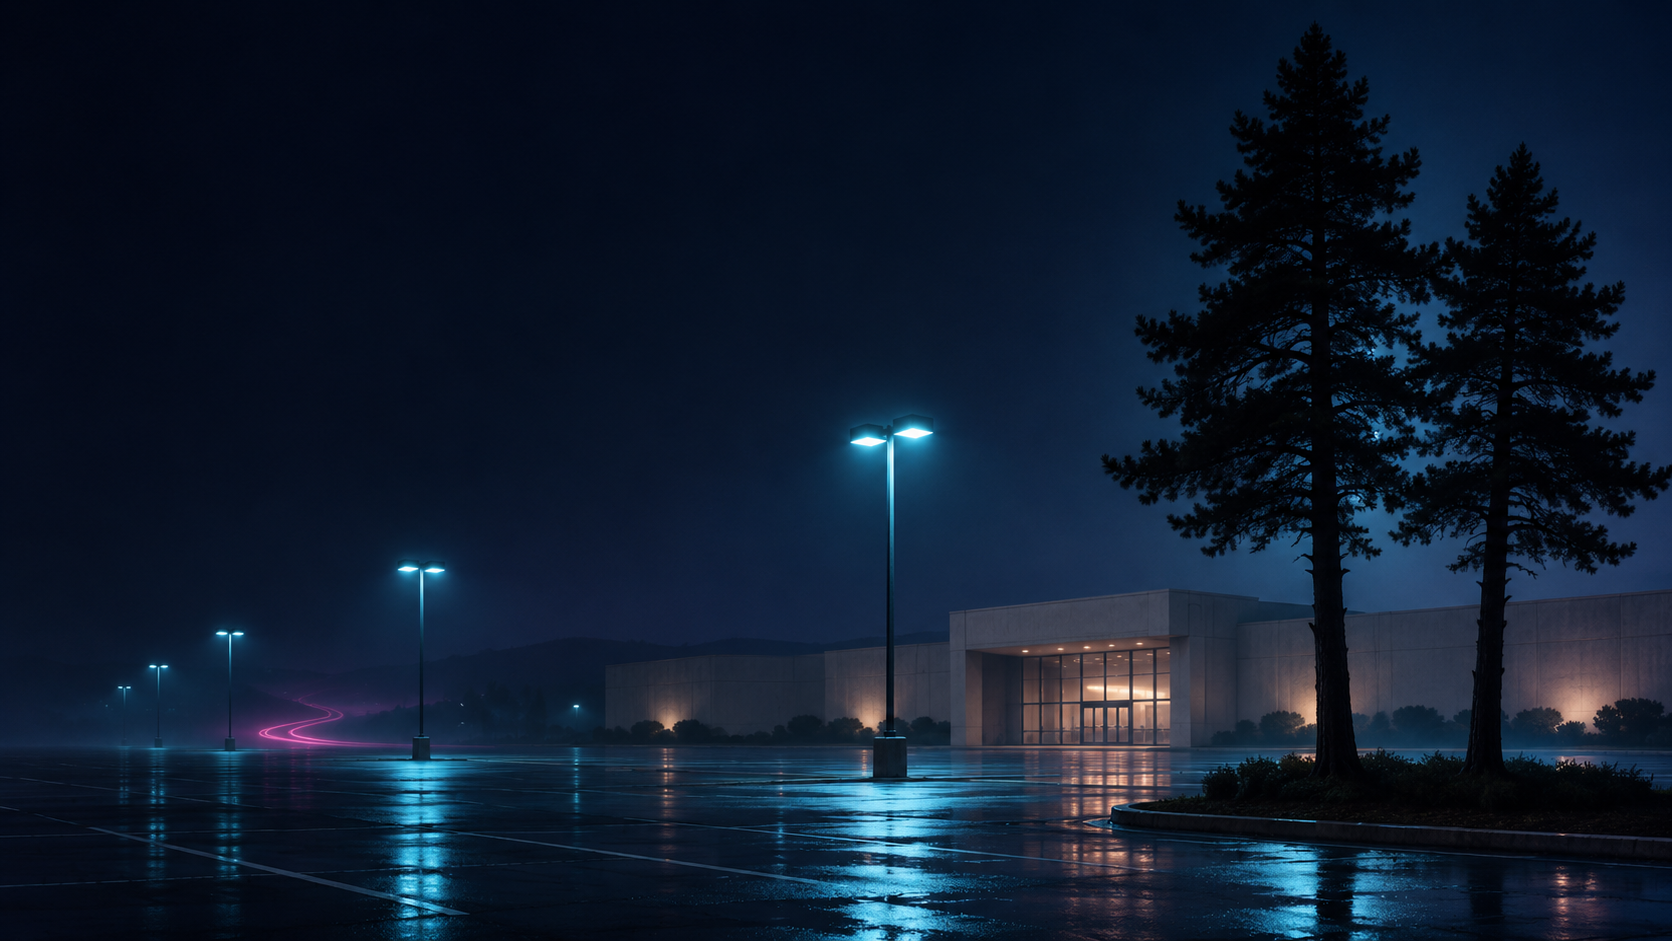
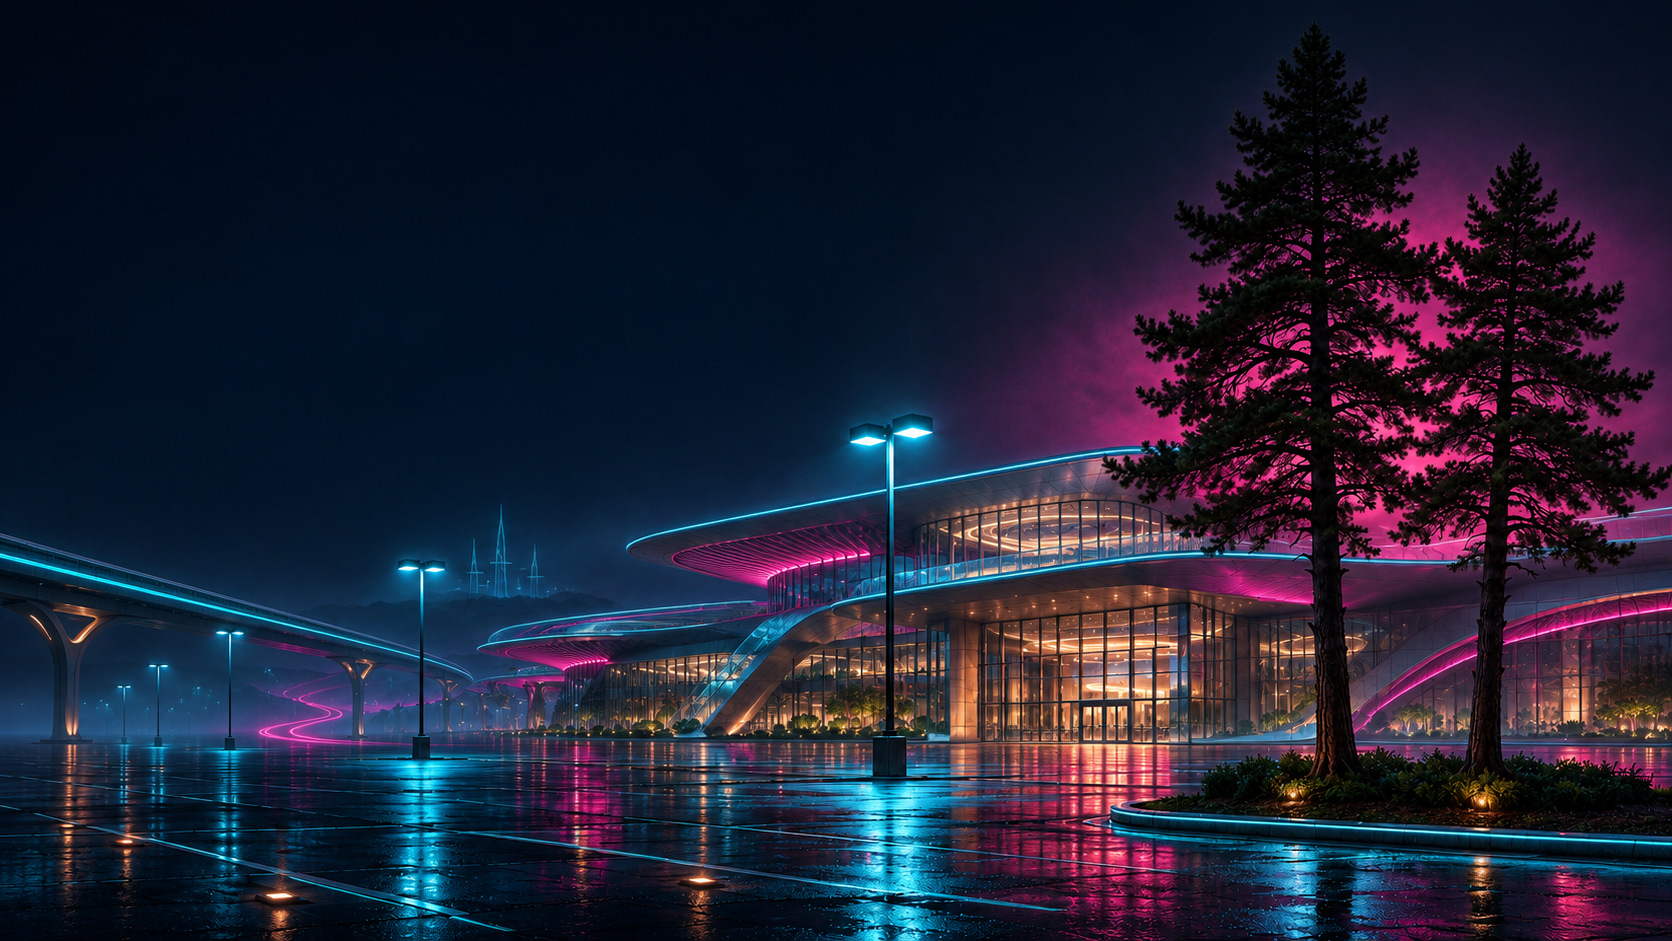
Reimagine Twin Pines Mall with futuristic architecture

diff --git a/README.md b/README.md
@@ -37,10 +37,10 @@ Four AI-generated wallpapers are included:
 | --- | --- |
 | [Neon Drift](backgrounds/01-neon-drift.png) — DeLorean side profile | 1586 × 992 |
 | [Future City](backgrounds/02-future-city.png) — neon skyline and time travel | 1586 × 992 |
-| [Twin Pines Mall](backgrounds/03-twin-pines-mall.png) — two pines | 1672 × 941 |
+| [Twin Pines Mall](backgrounds/03-twin-pines-mall.png) — futuristic glass mall, elevated transit, and two pines | 1672 × 941 |
 | [Lone Pine Mall](backgrounds/04-lone-pine-mall.png) — one pine | 1672 × 941 |
 
-These are the original installed wallpapers. Native 4K replacements are planned and are not included in this version.
+Native 4K replacements are planned and are not included in this version. The [Twin Pines generation prompt](prompts/03-twin-pines-mall.txt) is included for future revisions.
 
 ## Optional terminal styling
 
